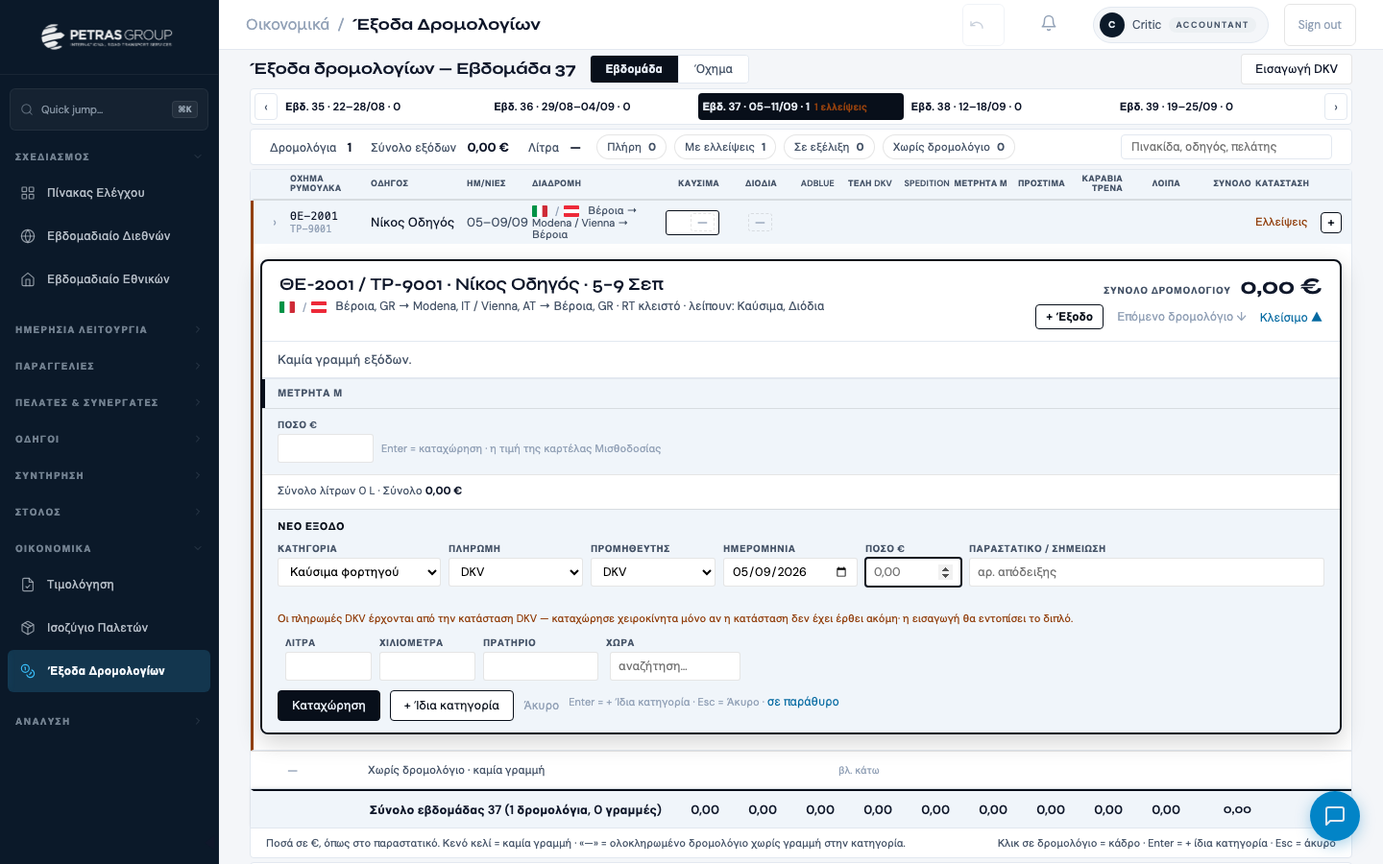
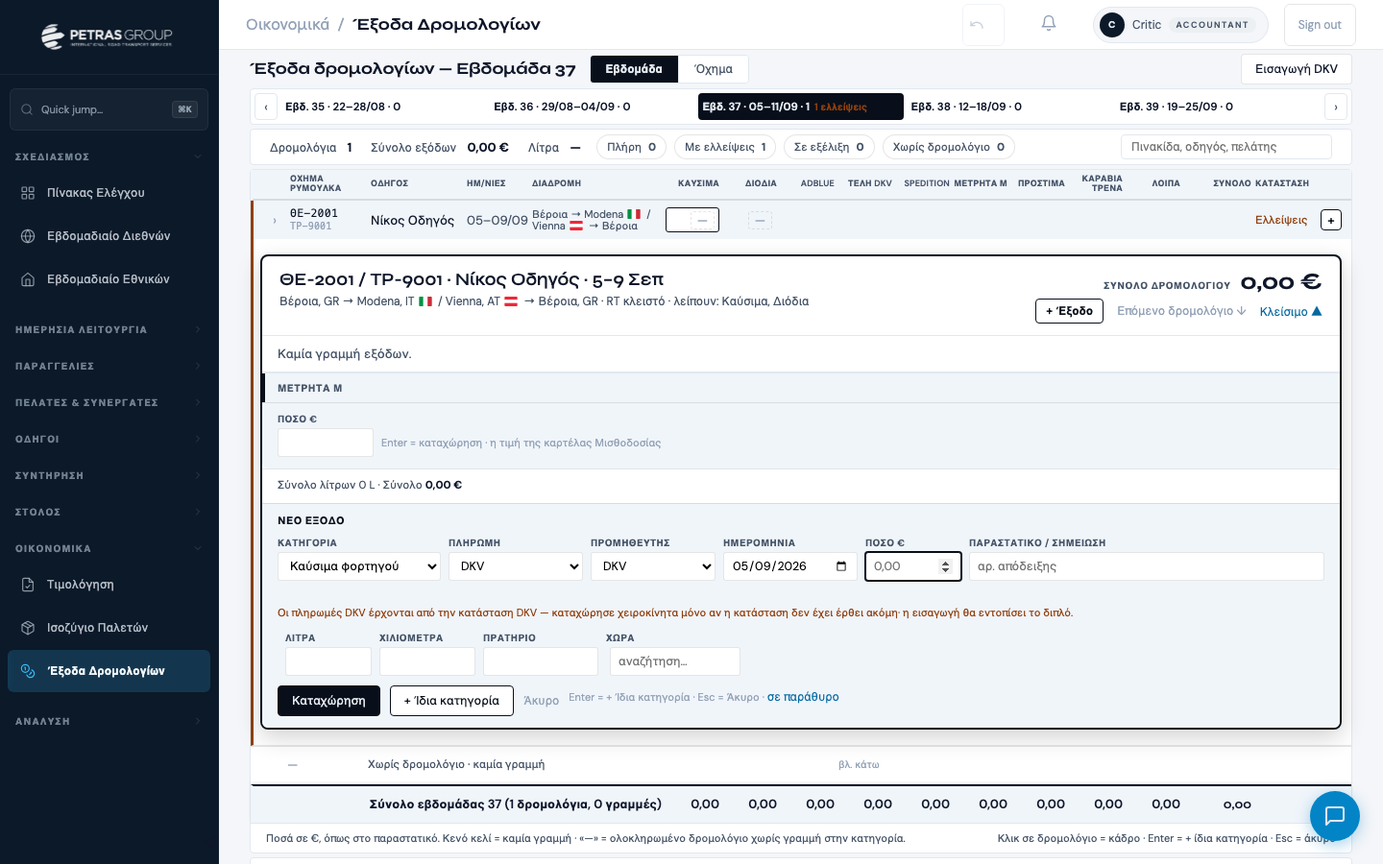
Έξοδα w11 ζωντανός έλεγχος 21/9 βράδυ: σημαία ΜΕΤΑ από κάθε ξένη στάση (owner: «Βέροια, GR → Modena, IT 🇮🇹 / Vienna, AT 🇦🇹 → Βέροια, GR», γραμμή σύντομη χωρίς CC, καμία για GR)· κλειδωμένο ποσό εισαγόμενης σε 2 δεκαδικά· χάρτης χωρών με ακριβή ισότητα + LV/LT/BA, rig ελέγχει και τα 33 distinct ονόμα

diff --git a/modules/expenses.js b/modules/expenses.js
@@ -380,12 +380,8 @@ function exStyles() {
   .ex-restsub{color:var(--text-mid)}
   .ex-expm-locked{padding:8px 16px;color:var(--text-mid);font-size:12px}
   .ex-expm-diff{color:var(--warn);font-weight:600;margin-left:6px}
-  /* w11 θέμα 7: foreign-country flags in front of the route, «/» between them,
-     a wider gap before the text — flags only (no code) on the RT row, as decided
-     16/9 for lines/stations; the code sits next to each stop in the text. */
-  .ex-rflags{display:inline-flex;align-items:center;gap:3px;margin-right:6px;vertical-align:middle}
-  .ex-rflags .ex-flag{width:16px;height:12px}
-  .ex-rsep{color:var(--text-dim);font-size:11px;margin:0 2px}
+  /* w11 θέμα 7 (owner 21/9 βράδυ): the flag follows each foreign stop inline. */
+  .ex-route .ex-flag,.ex-fr-title .s .ex-flag{width:14px;height:10px;vertical-align:-1px;margin-left:1px}
   .ex-fr-rest{margin-left:10px;font-size:11px;color:var(--text-mid);font-weight:500}
   .ex-locked-note{width:100%;color:var(--text-mid);font-size:11px;font-weight:500}
   .ex-payhint{width:100%;font-size:11px;line-height:1.3;color:var(--warn);margin:2px 0 4px}
@@ -884,12 +880,16 @@ function exTripTotal(r, lines) { return exAmt(lines) + Number((r.ledger_entry &&
 // one «/» per order (leg), Greece written as text like every other country.
 // locations.country holds both names («Greece», «Czech Republic») and codes
 // («GR», «ES») — normalised here once; unknown names stay as they are.
-const EX_COUNTRY_ISO = { GREECE: 'GR', ITALY: 'IT', AUSTRIA: 'AT', HUNGARY: 'HU', GERMANY: 'DE', 'CZECH REPUBLIC': 'CZ', CZECHIA: 'CZ', POLAND: 'PL', BULGARIA: 'BG', SLOVENIA: 'SI', SLOVAKIA: 'SK', SPAIN: 'ES', CROATIA: 'HR', SERBIA: 'RS', ROMANIA: 'RO', NETHERLANDS: 'NL', 'THE NETHERLANDS': 'NL', HOLLAND: 'NL', BELGIUM: 'BE', FRANCE: 'FR', SWITZERLAND: 'CH', 'NORTH MACEDONIA': 'MK', MACEDONIA: 'MK', TURKEY: 'TR', TÜRKIYE: 'TR', DENMARK: 'DK', SWEDEN: 'SE', LUXEMBOURG: 'LU', PORTUGAL: 'PT', 'UNITED KINGDOM': 'GB', ΕΛΛΑΔΑ: 'GR', ΙΤΑΛΙΑ: 'IT', ΑΥΣΤΡΙΑ: 'AT', ΟΥΓΓΑΡΙΑ: 'HU', ΓΕΡΜΑΝΙΑ: 'DE', ΒΟΥΛΓΑΡΙΑ: 'BG', ΡΟΥΜΑΝΙΑ: 'RO', ΣΕΡΒΙΑ: 'RS' };
+const EX_COUNTRY_ISO = { GREECE: 'GR', ITALY: 'IT', AUSTRIA: 'AT', HUNGARY: 'HU', GERMANY: 'DE', 'CZECH REPUBLIC': 'CZ', CZECHIA: 'CZ', POLAND: 'PL', BULGARIA: 'BG', SLOVENIA: 'SI', SLOVAKIA: 'SK', SPAIN: 'ES', CROATIA: 'HR', SERBIA: 'RS', ROMANIA: 'RO', NETHERLANDS: 'NL', 'THE NETHERLANDS': 'NL', HOLLAND: 'NL', BELGIUM: 'BE', FRANCE: 'FR', SWITZERLAND: 'CH', 'NORTH MACEDONIA': 'MK', MACEDONIA: 'MK', TURKEY: 'TR', TÜRKIYE: 'TR', DENMARK: 'DK', SWEDEN: 'SE', LUXEMBOURG: 'LU', PORTUGAL: 'PT', 'UNITED KINGDOM': 'GB', LATVIA: 'LV', LITHUANIA: 'LT', 'BOSNIA AND HERZEGOVINA': 'BA', BOSNIA: 'BA', ΕΛΛΑΔΑ: 'GR', ΙΤΑΛΙΑ: 'IT', ΑΥΣΤΡΙΑ: 'AT', ΟΥΓΓΑΡΙΑ: 'HU', ΓΕΡΜΑΝΙΑ: 'DE', ΒΟΥΛΓΑΡΙΑ: 'BG', ΡΟΥΜΑΝΙΑ: 'RO', ΣΕΡΒΙΑ: 'RS' };
+// Exact match only (never substring): the 21/9 live check showed «Ολλανδία
+// Καραϊβικής (BQ)» on an Arnhem stop — the location row itself holds
+// country 'BQ' (data, not the map); the screen must keep saying so until the
+// row is repaired (αρχή 1). A 2-letter code passes through unchanged.
 function exCountryIso(c) {
   if (!c) return '';
   const up = String(c).trim().toUpperCase();
   if (/^[A-Z]{2}$/.test(up)) return up;
-  return EX_COUNTRY_ISO[up] || up;
+  return Object.prototype.hasOwnProperty.call(EX_COUNTRY_ISO, up) ? EX_COUNTRY_ISO[up] : up;
 }
 function exRouteStops(r) {
   const legs = Array.isArray(r.route_legs) ? r.route_legs : [];
@@ -900,9 +900,17 @@ function exRouteCountries(r) {
   exRouteStops(r).forEach(stops => stops.forEach(p => { if (p.cc && p.cc !== 'GR' && !seen.includes(p.cc)) seen.push(p.cc); }));
   return seen;
 }
-function exRouteFlagsHtml(r) {
-  const ccs = exRouteCountries(r);
-  return ccs.length ? `<span class="ex-rflags">${ccs.map(cc => exFlag(cc)).join('<span class="ex-rsep">/</span>')}</span>` : '';
+// Owner 21/9 βράδυ («δεν μου αρέσουν αρκετά όπως είναι»): the flag sits AFTER
+// each FOREIGN stop — «Βέροια, GR → Modena, IT 🇮🇹 / Vienna, AT 🇦🇹 → Βέροια, GR»
+// — never in front, never for GR; «/» stays one per order. The row uses the
+// short stop («Modena 🇮🇹»), the frame title the full «Πόλη, CC 🇮🇹».
+function exRouteHtml(r, opts) {
+  const legs = exRouteStops(r);
+  if (!legs.length) return escapeHtml(r.route_text || '');
+  const short = !!(opts && opts.short);
+  const stop = p => escapeHtml(p.city) + (!short && p.cc ? ', ' + escapeHtml(p.cc) : '') + (p.cc && p.cc !== 'GR' ? ' ' + exFlag(p.cc) : '');
+  const parts = legs.map(stops => stops.map(stop).join(' → ')).filter(Boolean);
+  return parts.length ? parts.join(' / ') : escapeHtml(r.route_text || '');
 }
 function exRouteSummary(r, opts) {
   const legs = exRouteStops(r);
@@ -1326,7 +1334,7 @@ function exTripRowHtml(r, visCols, tmpl) {
       ${vehicleCell}
       ${driverCell}
       <div class="mid n">${exShortRange(r.date_start, r.date_end || r.date_start)}</div>
-      <div class="ex-route" onclick="exToggleExpand(${r.id})" title="${escapeHtml(routeSummary)}">${exRouteFlagsHtml(r)}${escapeHtml(exRouteSummary(r, { short: true }))}</div>
+      <div class="ex-route" onclick="exToggleExpand(${r.id})" title="${escapeHtml(routeSummary)}">${exRouteHtml(r, { short: true })}</div>
       ${cells}
       <div class="r n" style="font-weight:600">${hasAny ? exNum(rowTotal) : ''}</div>
       <div class="ex-st ${st.cls}"><span class="ex-st-w">${st.word}</span>${_ex.canWrite ? `<button type="button" class="ex-add" onclick="event.stopPropagation();exAddExpense(${r.id})" title="Νέο έξοδο σε αυτό το δρομολόγιο">+</button>` : ''}</div>
@@ -1469,7 +1477,7 @@ function exFrameHtml(r) {
   const docIdsHere = [...new Set(lines.map(l => l.doc_id).filter(v => v != null))];
   const docsTouched = (_ex.importDocs || []).filter(d => docIdsHere.includes(d.id) && Number(d.lines_deleted) > 0);
   const docNote = docsTouched.length ? `<span class="ex-idoc-del">κατάσταση DKV ${escapeHtml(docsTouched.map(d => (d.invoice_no || d.id) + ': ' + d.lines_deleted).join(', '))} γραμμές σβησμένες μετά την καταχώρηση</span>` : '';
-  const sub = [exRouteFlagsHtml(r) + escapeHtml(exRouteSummary(r) || '—'), exIsDone(r) ? 'RT κλειστό' : 'RT σε εξέλιξη', missing.length ? 'λείπουν: ' + escapeHtml(missing.join(', ')) : '', docNote].filter(Boolean).join(' · ');
+  const sub = [exRouteHtml(r) || '—', exIsDone(r) ? 'RT κλειστό' : 'RT σε εξέλιξη', missing.length ? 'λείπουν: ' + escapeHtml(missing.join(', ')) : '', docNote].filter(Boolean).join(' · ');
   // Column order (Καύσιμα … Λοιπά, spec) minus «expm» — that slot is not a
   // cost-line category (see EX_COL_ORDER's own comment) and gets its own
   // section with the ledger field below instead.
@@ -2053,7 +2061,7 @@ function exEditLineRowHtml(line) {
     <div class="ex-field ex-qe-cat"><label class="ex-flabel">Κατηγορία</label><select class="ex-ei" id="${p('exEdCategory')}" onchange="exEdCategoryChange(${line.id}, this)">${opts}</select></div>
     ${exPaySourceSelectHtml(p('exEdPaySource'), exLinePaySource(line) || exPaySourceDefault(line.category), !!line.doc_id)}
     <div class="ex-field ex-qe-date"><label class="ex-flabel">Ημερομηνία</label><input class="ex-ei" type="date" id="${p('exEdDate')}" value="${line.line_date || ''}"${lk}></div>
-    <div class="ex-field ex-qe-amt"><label class="ex-flabel">Ποσό €</label><input class="ex-ei" type="number" step="0.01" id="${p('exEdAmt')}" value="${line.net != null || line.vat != null ? exLineAmt(line) : ''}"${lk}></div>
+    <div class="ex-field ex-qe-amt"><label class="ex-flabel">Ποσό €</label><input class="ex-ei" type="number" step="0.01" id="${p('exEdAmt')}" value="${line.net != null || line.vat != null ? Number(exLineAmt(line)).toFixed(2) : ''}"${lk}></div>
     <div class="ex-field ex-qe-note"><label class="ex-flabel">Παραστατικό / σημείωση</label><input class="ex-ei" type="text" id="${p('exEdNote')}" value="${escapeHtml(line.note || '')}"></div>
     ${line.doc_id ? '' : exPayHintHtml(p('exEdPaySource'), exLinePaySource(line) || exPaySourceDefault(line.category))}
     <div class="ex-qe-break"></div>

diff --git a/tests/critics/expenses-proof.js b/tests/critics/expenses-proof.js
@@ -515,7 +515,7 @@ async function runAccountantFlow(browser) {
   for (const l of ['Κατηγορία', 'Πληρωμή', 'Ημερομηνία', 'Ποσό €', 'Παραστατικό / σημείωση', 'Προμηθευτής', 'Λίτρα', 'Χιλιόμετρα', 'Πρατήριο', 'Χώρα']) assert(edLabels.includes(l), 'E5: correction row label above field: «' + l + '»');
   const edFields = await page.locator('.ex-row.edit[data-line="9104"] .ex-field').evaluateAll(fs => fs.map(f => ({ label: (f.querySelector('.ex-flabel') || {}).textContent, hasInput: !!f.querySelector('input,select'), labelFirst: f.firstElementChild && f.firstElementChild.classList.contains('ex-flabel') })));
   assert(edFields.length >= 9 && edFields.every(f => f.hasInput && f.labelFirst), 'E5: every correction field is label-ABOVE-input (' + edFields.length + ' fields)');
-  assert(await page.locator('#exEdAmt_9104').inputValue() === '80' && await page.locator('#exEdPaySource_9104').inputValue() === 'CASH' && await page.locator('#exEdLiters_9104').inputValue() === '200', 'E5: correction row prefills amount 80, payment CASH, liters 200');
+  assert(await page.locator('#exEdAmt_9104').inputValue() === '80.00' && await page.locator('#exEdPaySource_9104').inputValue() === 'CASH' && await page.locator('#exEdLiters_9104').inputValue() === '200', 'E5: correction row prefills amount 80.00 (2 decimals since 21/9), payment CASH, liters 200');
   await page.screenshot({ path: shot('04-edit-labels-1440'), fullPage: true });
   await page.fill('#exEdAmt_9104', '85');
   await waitLines(page, 'PATCH', () => page.locator('.ex-row.edit[data-line="9104"] .ex-btn', { hasText: 'Αποθήκευση' }).click());
@@ -1084,6 +1084,7 @@ async function runW11ImportedLineFlow(browser) {
     assert(await page.locator('#' + id).isDisabled(), 'w11-6: ' + id + ' is disabled on an imported line («από κατάσταση DKV»)');
   }
   assert(!(await page.locator('#exEdCategory_9102').isDisabled()) && !(await page.locator('#exEdNote_9102').isDisabled()), 'w11-6: category and note stay editable');
+  assert(await page.locator('#exEdAmt_9102').inputValue() === '30.00', 'w11-6: the locked amount is formatted with 2 decimals (live 21/9 showed 112,2899999): ' + (await page.locator('#exEdAmt_9102').inputValue()));
   assert(/Εισαγόμενη από κατάσταση DKV/.test(await page.locator('.ex-frame .ex-locked-note').evaluate((el) => el.textContent)), 'w11-6: the edit row says why the amounts are locked (textContent — the title strip is CSS-uppercased)');
   await waitImages(page);
   await page.locator('.ex-frame .ex-row.edit').scrollIntoViewIfNeeded();
@@ -1198,14 +1199,15 @@ async function runW11RouteFlow(browser) {
   await page.waitForSelector('.ex-page .ex-seg', { timeout: 15000 });
   await openWeek(page, WEEK_START, 951);
   const routeCell = page.locator('.ex-gr[data-rt="951"] .ex-route');
-  const flags = await routeCell.locator('.ex-rflags img.ex-flag').evaluateAll(els => els.map(e => e.getAttribute('alt')));
-  assert(flags.join('/') === 'IT/AT', 'w11-7: flags = foreign countries only, in trip order, Greece omitted: ' + flags.join('/'));
-  assert(await routeCell.locator('.ex-rsep').count() === 1, 'w11-7: a «/» separator between the two flags');
+  // owner 21/9 βράδυ: the flag FOLLOWS each foreign stop, none for GR, none in front
+  const rowHtml = await routeCell.evaluate(el => el.innerHTML);
+  assert(/^Βέροια → Modena <img[^>]*alt="IT"[^>]*> \/ Vienna <img[^>]*alt="AT"[^>]*> → Βέροια$/.test(rowHtml.replace(/\s+/g, ' ').trim()), 'w11-7: the ROW reads «Βέροια → Modena 🇮🇹 / Vienna 🇦🇹 → Βέροια» — flag after each foreign stop, short form: ' + rowHtml);
+  assert(await routeCell.locator('img.ex-flag[alt="GR"]').count() === 0 && await routeCell.locator('img.ex-flag').count() === 2, 'w11-7: no GR flag, exactly two foreign flags');
   const txt = (await routeCell.evaluate(el => el.textContent)).replace(/\s+/g, ' ').trim();
-  assert(txt === '/Βέροια → Modena / Vienna → Βέροια', 'w11-7: the ROW carries the short route «Βέροια → Modena / Vienna → Βέροια» (no «, CC» — the flags say the countries): «' + txt + '»');
+  assert(txt === 'Βέροια → Modena / Vienna → Βέροια', 'w11-7: the ROW text is the short route: «' + txt + '»');
   assert((await routeCell.getAttribute('title')) === 'Βέροια, GR → Modena, IT / Vienna, AT → Βέροια, GR', 'w11-7: the tooltip carries the full «Πόλη, CC» form');
   await waitImages(page);
-  const flagW = await routeCell.locator('.ex-rflags img.ex-flag').evaluateAll(els => els.map(e => e.naturalWidth));
+  const flagW = await routeCell.locator('img.ex-flag').evaluateAll(els => els.map(e => e.naturalWidth));
   assert(flagW.length === 2 && flagW.every(w => w > 0), 'w11-7: both flag <img> (local SVG assets/flags/it.svg, at.svg) decoded, naturalWidth > 0: ' + JSON.stringify(flagW));
   // 1440: the two-leg short route fits the row without an ellipsis (measured)
   // two-line clamp: «fits» = nothing clipped vertically (scrollHeight ≤ clientHeight)
@@ -1213,11 +1215,20 @@ async function runW11RouteFlow(browser) {
   assert(fits, 'w11-7: at 1440 the short two-leg route fits the Διαδρομή column in ≤3 lines, nothing clipped (scrollHeight ≤ clientHeight): ' + (await routeCell.evaluate(el => el.scrollHeight + '/' + el.clientHeight + ' · width ' + el.clientWidth)));
   const rowH = await page.locator('.ex-gr[data-rt="951"]').evaluate(el => el.getBoundingClientRect().height);
   assert(rowH <= 46.5, 'w11-7: the RT row stays within the 46px limit of 13/9 with the three-line route: ' + rowH);
+  // 21/9 live fix: every country NAME the locations table holds today maps to
+  // its ISO code by EXACT match (select distinct country from locations, 21/9);
+  // codes pass through; an unknown name stays visible as it is (never guessed).
+  const isoTable = { Greece: 'GR', Italy: 'IT', Poland: 'PL', Germany: 'DE', Netherlands: 'NL', Austria: 'AT', 'Czech Republic': 'CZ', Hungary: 'HU', Bulgaria: 'BG', Romania: 'RO', Spain: 'ES', Slovakia: 'SK', Croatia: 'HR', Slovenia: 'SI', Belgium: 'BE', Serbia: 'RS', France: 'FR', 'North Macedonia': 'MK', Switzerland: 'CH', Latvia: 'LV', Portugal: 'PT', 'Bosnia and Herzegovina': 'BA', Lithuania: 'LT', GR: 'GR', ES: 'ES', IT: 'IT', DE: 'DE', NL: 'NL', RS: 'RS', PL: 'PL', HU: 'HU', CZ: 'CZ', AT: 'AT', BQ: 'BQ', Ruritania: 'RURITANIA' };
+  const isoGot = await page.evaluate((t) => Object.fromEntries(Object.keys(t).map(k => [k, exCountryIso(k)])), isoTable);
+  const isoBad = Object.keys(isoTable).filter(k => isoGot[k] !== isoTable[k]);
+  assert(isoBad.length === 0, 'w11-7: every distinct locations.country of 21/9 maps to its ISO by exact match (BQ stays BQ — a data error must stay visible): ' + JSON.stringify(isoBad.map(k => [k, isoGot[k]])));
   await openFrame(page, 951);
   await waitImages(page);
   const sub = (await page.locator('.ex-frame .ex-fr-title .s').evaluate(el => el.textContent)).replace(/\s+/g, ' ').trim();
   assert(/Βέροια, GR → Modena, IT \/ Vienna, AT → Βέροια, GR · RT κλειστό/.test(sub), 'w11-7: the frame title line carries the FULL «Πόλη, CC» route: «' + sub + '»');
-  const frameFlagW = await page.locator('.ex-frame .ex-fr-title .ex-rflags img.ex-flag').evaluateAll(els => els.map(e => e.naturalWidth));
+  const subHtml = (await page.locator('.ex-frame .ex-fr-title .s').evaluate(el => el.innerHTML)).replace(/\s+/g, ' ');
+  assert(/Modena, IT <img[^>]*alt="IT"[^>]*> \/ Vienna, AT <img[^>]*alt="AT"[^>]*> → Βέροια, GR ·/.test(subHtml), 'w11-7: in the frame the flag follows «Modena, IT» and «Vienna, AT», none after GR: ' + subHtml);
+  const frameFlagW = await page.locator('.ex-frame .ex-fr-title .s img.ex-flag').evaluateAll(els => els.map(e => e.naturalWidth));
   assert(frameFlagW.length === 2 && frameFlagW.every(w => w > 0), 'w11-7: the frame title flags decoded too: ' + JSON.stringify(frameFlagW));
   await page.screenshot({ path: path.join(SHOT_DIR, 'w11-expenses-route-flags-1440.png'), fullPage: false });
   await context.close();

diff --git a/sw.js b/sw.js
@@ -7,7 +7,7 @@
 //   - Offline banner via postMessage to all clients
 // ═══════════════════════════════════════════════════════════
 
-const SW_VERSION = '1789998730';
+const SW_VERSION = '1790003495';
 
 // Το vendor/leaflet/* ΔΕΝ μπαίνει στο APP_SHELL επίτηδες: το pre-cache στο
 // install θα κατέβαζε 228 KB σε κάθε χρήστη, ακυρώνοντας το lazy loading της

diff --git a/app.html b/app.html
@@ -139,7 +139,7 @@
   <script src="modules/costs.js?v=1789998730"></script>
   <script src="modules/payroll.js?v=1789998730"></script>
   <script src="modules/payroll_print.js?v=1789586979"></script>
-  <script src="modules/expenses.js?v=1789998730"></script>
+  <script src="modules/expenses.js?v=1790003495"></script>
   <script src="modules/expenses_import.js?v=1789998730"></script>
   <script src="modules/maintenance.js?v=1789313316"></script>
   <script src="modules/orders_intl.js?v=1789487405"></script>

diff --git a/docs/data-audit/2026-09/2026-09-21-w11-expenses.md b/docs/data-audit/2026-09/2026-09-21-w11-expenses.md
@@ -247,3 +247,31 @@ Screenshots ΜΕΤΑ: `shots/w11-expenses-align-after-1280.png`, `-1440.png`. Ε
 συντονιστής. Εκκρεμή για 22/9 (συντονιστής): Ημερήσιο ζωντανά, 2ο screenshot 1920 zoom 100 % (θέμα 5), επόμενη
 εισαγωγή DKV με δίδυμα.
 
+## 11. Ζωντανός έλεγχος παραγωγής 21/9 βράδυ (Chrome owner, εβδ. 38) — 2 ελαττώματα + 1 αλλαγή μορφής
+
+Όλα τα υπόλοιπα ΟΚ (σημαίες, «/» ανά παραγγελία, τίτλος κάδρου, Διόρθωση/Διαγραφή παντού, Μετρητά Μ
+μόνο-ανάγνωσης, «Διόδια RS 112,29», «Τέλη DKV · 11 πηγές», λωρίδα εισαγόμενης με κλειδωμένα πεδία).
+
+1. **«Ολλανδία Καραϊβικής (BQ)» στο CB8425XT (Arnhem).** ΔΕΝ είναι λάθος του χάρτη: η τοποθεσία **2377 «Mond &
+   Riksen B.V., Arnhem»** έχει στη βάση `country = 'BQ'` (η διπλανή Farmusol Arnhem, id 740, έχει «Netherlands»).
+   Η οθόνη είπε ό,τι λέει ο πίνακας — σωστά (αρχή 1). Ο χάρτης ταιριάζει ονόματα με ΑΚΡΙΒΗ ισότητα (ποτέ
+   substring) και περνά τους 2-γράμματους κωδικούς ως έχουν· προστέθηκαν Λετονία/Λιθουανία/Βοσνία που υπήρχαν
+   στη βάση χωρίς αντιστοίχιση. Rig: πίνακας με ΟΛΑ τα distinct `locations.country` της 21/9 (33 τιμές) →
+   αναμενόμενο ISO, «BQ» μένει «BQ». **Επισκευή δεδομένων (owner, SQL editor):**
+   ```sql
+   -- ΠΡΙΝ: select id, name, city, country from locations where id = 2377;  -- BQ
+   update locations set country = 'Netherlands' where id = 2377 and country = 'BQ';
+   -- ΜΕΤΑ: ίδιο SELECT → Netherlands· η γραμμή RT CB8425XT δείχνει 🇳🇱 μετά το Arnhem
+   ```
+2. **Κλειδωμένο ποσό «112,2899999»** στη φόρμα Διόρθωσης εισαγόμενης: το `value` του input έπαιρνε τον αριθμό
+   float· τώρα `toFixed(2)` (ίδια μορφή με τη γραμμή). Rig: `#exEdAmt` = «30.00»/«80.00».
+3. **Μορφή σημαιών (owner 21/9 βράδυ: «δεν μου αρέσουν αρκετά όπως είναι»):** η σημαία μπαίνει ΜΕΤΑ από κάθε ξένη
+   στάση — γραμμή «Βέροια → Modena 🇮🇹 / Vienna 🇦🇹 → Βέροια», κάδρο «Βέροια, GR → Modena, IT 🇮🇹 / Vienna, AT 🇦🇹
+   → Βέροια, GR»· καμία σημαία μπροστά, καμία για GR, «/» ανά παραγγελία. Rig: θέση `<img>` αμέσως μετά την
+   ξένη πόλη, 0 σημαίες GR, 2 ξένες. Παρενέργεια: στα 1440 η σύντομη διαδρομή 2 σκελών χωρά πλέον σε 2
+   γραμμές (25/24 px), γραμμή RT 40 px.
+4. Σημείωση: το doc 4 (26/654536401/000, 11/8–15/9) είναι πρόχειρο (draft) της Αλεξίας από 21/9 — η επόμενη
+   εισαγωγή θα γίνει με τον νέο Worker (συγκεντρωτικές + δίδυμα).
+
+Απόδειξη: expenses-proof 894/894, screenshot `shots/w11-expenses-route-flags-1440.png` (γραμμή + κάδρο).
+

diff --git a/docs/DECISION_LOG.md b/docs/DECISION_LOG.md
@@ -1811,3 +1811,11 @@ go-live) · συντονιστής petrasgroup-tms-2e · αποφάσεις 7.1 
 **Απόδειξη:** 038 302/489/634 → 175/140/149 με ταυτόσημα net/vat, τέλη χωρίς φορτηγό 0, details 162 = audit 162· 039 CHECK
 restatement· 040 NULL 0 / NOT NULL / audit 8· 041 lines_deleted 0· 042 9 RT με CASH = Σ, needs_review 5, audit 9, gap 0.
 Πλήρες: audit doc w11 §10 ΜΕΤΑ. **Ποιος:** owner (εκτέλεση), Claude Fable 5.1 «Έξοδα w11» (επαλήθευση, docs).
+
+### 2026-09-21 · costs · w11 ζωντανός έλεγχος: σημαία ΜΕΤΑ από κάθε ξένη στάση (owner), BQ = δεδομένα τοποθεσίας 2377, ποσό 2 δεκαδικά
+**Owner (βράδυ):** «δεν μου αρέσουν αρκετά όπως είναι» — μορφή «Βέροια, GR → Modena, IT 🇮🇹 / Vienna, AT 🇦🇹 → Βέροια, GR», καμία
+σημαία μπροστά ή για GR (γραμμή: σύντομη χωρίς «, CC»). **Εύρημα:** «Ολλανδία Καραϊβικής (BQ)» στο Arnhem = `locations.country='BQ'`
+στην τοποθεσία 2377 — η οθόνη είπε την αλήθεια του πίνακα· ο χάρτης ονομάτων ταιριάζει με ακριβή ισότητα και το rig ελέγχει ΟΛΑ τα
+distinct ονόματα της βάσης (33)· η επισκευή είναι UPDATE του owner (audit doc §11), όχι απόκρυψη στον κώδικα (αρχή 1).
+**Απορρίφθηκε:** να μεταφράζεται το BQ σε NL στην οθόνη. **Απόδειξη:** rig 894/894, shot w11-expenses-route-flags-1440.
+**Ποιος:** owner (μορφή), Claude Fable 5.1 «Έξοδα w11».
